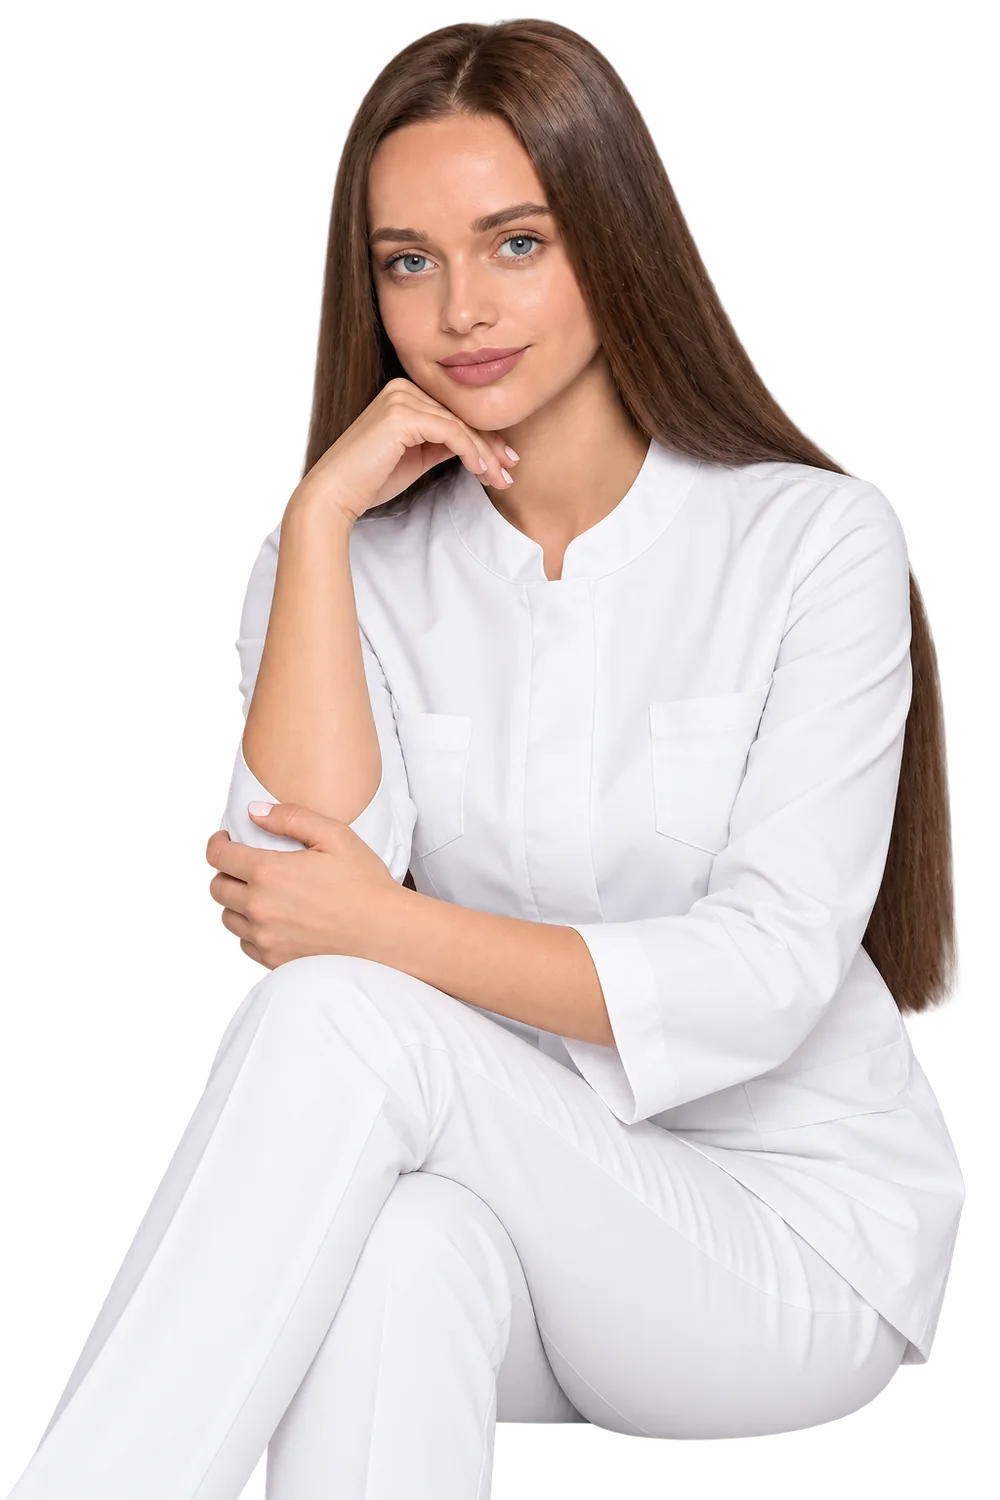
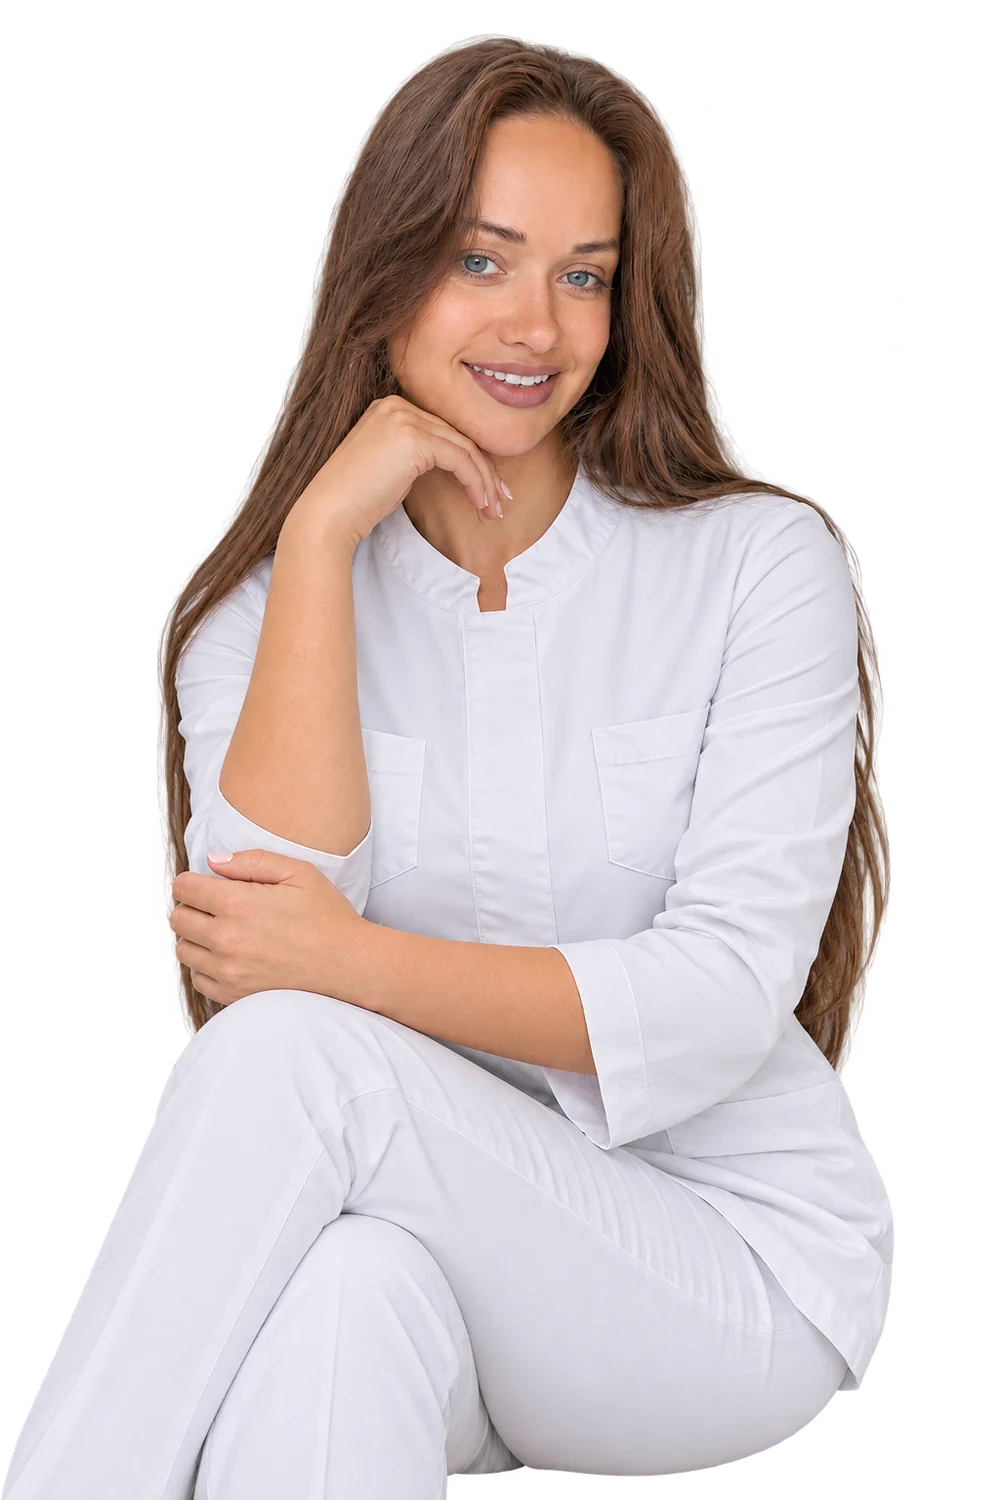
Новое фото мастера, порядок микроблейдинга, тёплая цветокоррекция, новая работа
- Первый экран и страница «Спасибо»: новое фото мастера (прозрачный фон, без тёмной каймы)
- Портфолио → Микроблейдинг: сначала фото с лицами, затем коллажи бровей
- Добавлена новая работа в микроблейдинг (первой в списке)
- lips-09: добавлено тепла (баланс белого, насыщенность)
- Метки версии у изменённых картинок, чтобы не показывались старые из кеша

diff --git a/index.html b/index.html
@@ -10,7 +10,7 @@
   <link rel="preconnect" href="https://fonts.googleapis.com">
   <link rel="preconnect" href="https://fonts.gstatic.com" crossorigin>
   <link href="https://fonts.googleapis.com/css2?family=Unbounded:wght@500&display=swap" rel="stylesheet">
-  <link rel="stylesheet" href="assets/css/style.css?v=202611051930">
+  <link rel="stylesheet" href="assets/css/style.css?v=202611071856">
 </head>
 <body>
 
@@ -115,7 +115,7 @@
   <section class="hero container">
     <div class="hero__card">
       <img class="hero__bg" src="assets/img/hero-bg.webp" alt="" width="1672" height="941" fetchpriority="high">
-      <img class="hero__master" src="assets/img/hero-master.webp" alt="Анжела Богатырёва — мастер перманентного макияжа" width="1000" height="1500" fetchpriority="high">
+      <img class="hero__master" src="assets/img/hero-master.webp?v=2" alt="Анжела Богатырёва — мастер перманентного макияжа" width="1000" height="1500" fetchpriority="high">
 
       <div class="hero__panel">
         <p class="hero__kicker">Красота, которая остаётся с вам надолго</p>
@@ -241,7 +241,7 @@
       <figure class="work" data-cat="lips"><img src="assets/img/works/lips-06.webp" alt="Перманентный макияж губ — работа мастера" loading="lazy" width="720" height="1280"></figure>
       <figure class="work" data-cat="lips"><img src="assets/img/works/lips-07.webp" alt="Перманентный макияж губ — работа мастера" loading="lazy" width="828" height="1220"></figure>
       <figure class="work" data-cat="lips"><img src="assets/img/works/lips-08.webp" alt="Перманентный макияж губ — работа мастера" loading="lazy" width="900" height="824"></figure>
-      <figure class="work" data-cat="lips microblading"><img src="assets/img/works/lips-09.webp" alt="Перманентный макияж губ — работа мастера" loading="lazy" width="900" height="1125"></figure>
+      <figure class="work" data-cat="lips microblading"><img src="assets/img/works/lips-09.webp?v=2" alt="Перманентный макияж губ — работа мастера" loading="lazy" width="900" height="1125"></figure>
       <figure class="work" data-cat="lips"><img src="assets/img/works/lips-10.webp" alt="Перманентный макияж губ — работа мастера" loading="lazy" width="900" height="1125"></figure>
       <figure class="work" data-cat="lips"><img src="assets/img/works/lips-11.webp" alt="Перманентный макияж губ — работа мастера" loading="lazy" width="900" height="1205"></figure>
       <figure class="work" data-cat="lips"><img src="assets/img/works/lips-12.webp" alt="Перманентный макияж губ — работа мастера" loading="lazy" width="900" height="1200"></figure>
@@ -276,6 +276,19 @@
       <figure class="work" data-cat="lash"><img src="assets/img/works/lash-06.webp" alt="Перманентный макияж межреснички — работа мастера" loading="lazy" width="900" height="1200"></figure>
       <figure class="work" data-cat="lash"><img src="assets/img/works/lash-07.webp" alt="Перманентный макияж межреснички — работа мастера" loading="lazy" width="900" height="1256"></figure>
       <figure class="work" data-cat="lash"><img src="assets/img/works/lash-08.webp" alt="Перманентный макияж межреснички — работа мастера" loading="lazy" width="900" height="1600"></figure>
+      <figure class="work" data-cat="microblading"><img src="assets/img/works/microblading-40.webp" alt="Микроблейдинг бровей — работа мастера" loading="lazy" width="900" height="1125"></figure>
+      <figure class="work" data-cat="microblading"><img src="assets/img/works/microblading-37.webp" alt="Микроблейдинг бровей — работа мастера" loading="lazy" width="900" height="1074"></figure>
+      <figure class="work" data-cat="microblading"><img src="assets/img/works/microblading-20.webp" alt="Микроблейдинг бровей — работа мастера" loading="lazy" width="900" height="1125"></figure>
+      <figure class="work" data-cat="microblading"><img src="assets/img/works/microblading-36.webp" alt="Микроблейдинг бровей — работа мастера" loading="lazy" width="900" height="1125"></figure>
+      <figure class="work" data-cat="microblading"><img src="assets/img/works/microblading-38.webp" alt="Микроблейдинг бровей — работа мастера" loading="lazy" width="900" height="1125"></figure>
+      <figure class="work" data-cat="microblading"><img src="assets/img/works/microblading-39.webp" alt="Микроблейдинг бровей — работа мастера" loading="lazy" width="900" height="1058"></figure>
+      <figure class="work" data-cat="microblading"><img src="assets/img/works/microblading-25.webp" alt="Микроблейдинг бровей — работа мастера" loading="lazy" width="900" height="1125"></figure>
+      <figure class="work" data-cat="microblading"><img src="assets/img/works/microblading-34.webp" alt="Микроблейдинг бровей — работа мастера" loading="lazy" width="900" height="1200"></figure>
+      <figure class="work" data-cat="microblading"><img src="assets/img/works/microblading-26.webp" alt="Микроблейдинг бровей — работа мастера" loading="lazy" width="900" height="1200"></figure>
+      <figure class="work" data-cat="microblading"><img src="assets/img/works/microblading-12.webp" alt="Микроблейдинг бровей — работа мастера" loading="lazy" width="900" height="1600"></figure>
+      <figure class="work" data-cat="microblading"><img src="assets/img/works/microblading-33.webp" alt="Микроблейдинг бровей — работа мастера" loading="lazy" width="900" height="1083"></figure>
+      <figure class="work" data-cat="microblading"><img src="assets/img/works/microblading-16.webp" alt="Микроблейдинг бровей — работа мастера" loading="lazy" width="900" height="900"></figure>
+      <figure class="work" data-cat="microblading"><img src="assets/img/works/microblading-32.webp" alt="Микроблейдинг бровей — работа мастера" loading="lazy" width="900" height="900"></figure>
       <figure class="work" data-cat="microblading"><img src="assets/img/works/microblading-01.webp" alt="Микроблейдинг бровей — работа мастера" loading="lazy" width="900" height="900"></figure>
       <figure class="work" data-cat="microblading"><img src="assets/img/works/microblading-02.webp" alt="Микроблейдинг бровей — работа мастера" loading="lazy" width="900" height="900"></figure>
       <figure class="work" data-cat="microblading"><img src="assets/img/works/microblading-03.webp" alt="Микроблейдинг бровей — работа мастера" loading="lazy" width="827" height="843"></figure>
@@ -287,34 +300,22 @@
       <figure class="work" data-cat="microblading"><img src="assets/img/works/microblading-09.webp" alt="Микроблейдинг бровей — работа мастера" loading="lazy" width="900" height="900"></figure>
       <figure class="work" data-cat="microblading"><img src="assets/img/works/microblading-10.webp" alt="Микроблейдинг бровей — работа мастера" loading="lazy" width="900" height="900"></figure>
       <figure class="work" data-cat="microblading"><img src="assets/img/works/microblading-11.webp" alt="Микроблейдинг бровей — работа мастера" loading="lazy" width="900" height="900"></figure>
-      <figure class="work" data-cat="microblading"><img src="assets/img/works/microblading-12.webp" alt="Микроблейдинг бровей — работа мастера" loading="lazy" width="900" height="1600"></figure>
       <figure class="work" data-cat="microblading"><img src="assets/img/works/microblading-13.webp" alt="Микроблейдинг бровей — работа мастера" loading="lazy" width="900" height="900"></figure>
       <figure class="work" data-cat="microblading"><img src="assets/img/works/microblading-14.webp" alt="Микроблейдинг бровей — работа мастера" loading="lazy" width="900" height="900"></figure>
       <figure class="work" data-cat="microblading"><img src="assets/img/works/microblading-15.webp" alt="Микроблейдинг бровей — работа мастера" loading="lazy" width="900" height="900"></figure>
-      <figure class="work" data-cat="microblading"><img src="assets/img/works/microblading-16.webp" alt="Микроблейдинг бровей — работа мастера" loading="lazy" width="900" height="900"></figure>
       <figure class="work" data-cat="microblading"><img src="assets/img/works/microblading-17.webp" alt="Микроблейдинг бровей — работа мастера" loading="lazy" width="900" height="900"></figure>
       <figure class="work" data-cat="microblading"><img src="assets/img/works/microblading-18.webp" alt="Микроблейдинг бровей — работа мастера" loading="lazy" width="900" height="900"></figure>
       <figure class="work" data-cat="microblading"><img src="assets/img/works/microblading-19.webp" alt="Микроблейдинг бровей — работа мастера" loading="lazy" width="900" height="900"></figure>
-      <figure class="work" data-cat="microblading"><img src="assets/img/works/microblading-20.webp" alt="Микроблейдинг бровей — работа мастера" loading="lazy" width="900" height="1125"></figure>
       <figure class="work" data-cat="microblading"><img src="assets/img/works/microblading-21.webp" alt="Микроблейдинг бровей — работа мастера" loading="lazy" width="900" height="1125"></figure>
       <figure class="work" data-cat="microblading"><img src="assets/img/works/microblading-22.webp" alt="Микроблейдинг бровей — работа мастера" loading="lazy" width="900" height="1125"></figure>
       <figure class="work" data-cat="microblading"><img src="assets/img/works/microblading-23.webp" alt="Микроблейдинг бровей — работа мастера" loading="lazy" width="900" height="1125"></figure>
       <figure class="work" data-cat="microblading"><img src="assets/img/works/microblading-24.webp" alt="Микроблейдинг бровей — работа мастера" loading="lazy" width="900" height="1125"></figure>
-      <figure class="work" data-cat="microblading"><img src="assets/img/works/microblading-25.webp" alt="Микроблейдинг бровей — работа мастера" loading="lazy" width="900" height="1125"></figure>
-      <figure class="work" data-cat="microblading"><img src="assets/img/works/microblading-26.webp" alt="Микроблейдинг бровей — работа мастера" loading="lazy" width="900" height="1200"></figure>
       <figure class="work" data-cat="microblading"><img src="assets/img/works/microblading-27.webp" alt="Микроблейдинг бровей — работа мастера" loading="lazy" width="900" height="1125"></figure>
       <figure class="work" data-cat="microblading"><img src="assets/img/works/microblading-28.webp" alt="Микроблейдинг бровей — работа мастера" loading="lazy" width="900" height="900"></figure>
       <figure class="work" data-cat="microblading"><img src="assets/img/works/microblading-29.webp" alt="Микроблейдинг бровей — работа мастера" loading="lazy" width="900" height="900"></figure>
       <figure class="work" data-cat="microblading"><img src="assets/img/works/microblading-30.webp" alt="Микроблейдинг бровей — работа мастера" loading="lazy" width="900" height="1067"></figure>
       <figure class="work" data-cat="microblading"><img src="assets/img/works/microblading-31.webp" alt="Микроблейдинг бровей — работа мастера" loading="lazy" width="900" height="1600"></figure>
-      <figure class="work" data-cat="microblading"><img src="assets/img/works/microblading-32.webp" alt="Микроблейдинг бровей — работа мастера" loading="lazy" width="900" height="900"></figure>
-      <figure class="work" data-cat="microblading"><img src="assets/img/works/microblading-33.webp" alt="Микроблейдинг бровей — работа мастера" loading="lazy" width="900" height="1083"></figure>
-      <figure class="work" data-cat="microblading"><img src="assets/img/works/microblading-34.webp" alt="Микроблейдинг бровей — работа мастера" loading="lazy" width="900" height="1200"></figure>
       <figure class="work" data-cat="microblading"><img src="assets/img/works/microblading-35.webp" alt="Микроблейдинг бровей — работа мастера" loading="lazy" width="900" height="1125"></figure>
-      <figure class="work" data-cat="microblading"><img src="assets/img/works/microblading-36.webp" alt="Микроблейдинг бровей — работа мастера" loading="lazy" width="900" height="1125"></figure>
-      <figure class="work" data-cat="microblading"><img src="assets/img/works/microblading-37.webp" alt="Микроблейдинг бровей — работа мастера" loading="lazy" width="900" height="1074"></figure>
-      <figure class="work" data-cat="microblading"><img src="assets/img/works/microblading-38.webp" alt="Микроблейдинг бровей — работа мастера" loading="lazy" width="900" height="1125"></figure>
-      <figure class="work" data-cat="microblading"><img src="assets/img/works/microblading-39.webp" alt="Микроблейдинг бровей — работа мастера" loading="lazy" width="900" height="1058"></figure>
       <figure class="work" data-cat="laser"><img src="assets/img/works/laser-01.webp" alt="Лазерное удаление татуажа — работа мастера" loading="lazy" width="900" height="900"></figure>
       <figure class="work" data-cat="laser"><img src="assets/img/works/laser-02.webp" alt="Лазерное удаление татуажа — работа мастера" loading="lazy" width="828" height="823"></figure>
       <figure class="work" data-cat="laser"><img src="assets/img/works/laser-03.webp" alt="Лазерное удаление татуажа — работа мастера" loading="lazy" width="900" height="900"></figure>
@@ -518,6 +519,6 @@
   </div>
 </div>
 
-<script src="assets/js/main.js?v=202611051930" defer></script>
+<script src="assets/js/main.js?v=202611071856" defer></script>
 </body>
 </html>

diff --git a/thanks.html b/thanks.html
@@ -10,7 +10,7 @@
   <link rel="preconnect" href="https://fonts.googleapis.com">
   <link rel="preconnect" href="https://fonts.gstatic.com" crossorigin>
   <link href="https://fonts.googleapis.com/css2?family=Unbounded:wght@500&display=swap" rel="stylesheet">
-  <link rel="stylesheet" href="assets/css/style.css?v=202611051930">
+  <link rel="stylesheet" href="assets/css/style.css?v=202611071856">
 </head>
 <body class="page-thanks">
 
@@ -127,7 +127,7 @@
     </div>
     <div class="thanks__visual" aria-hidden="true">
       <img class="thanks__bg" src="assets/img/hero-bg.webp" alt="" width="1672" height="941">
-      <img class="thanks__master" src="assets/img/hero-master.webp" alt="" width="1000" height="1500">
+      <img class="thanks__master" src="assets/img/hero-master.webp?v=2" alt="" width="1000" height="1500">
     </div>
   </section>
 </main>

diff --git a/assets/js/main.js b/assets/js/main.js
@@ -28,7 +28,7 @@
         ['Естественный вид:', 'современные техники (особенно акварельная) позволяют добиться эффекта «своих» ухоженных губ без ощущения яркой помады.'],
       ],
       price: '8 000 ₽',
-      images: ['works/brows-17.webp', 'works/lips-09.webp', 'works/lips-13.webp', 'works/lips-04.webp', 'works/lips-06.webp'],
+      images: ['works/brows-17.webp', 'works/lips-09.webp?v=2', 'works/lips-13.webp', 'works/lips-04.webp', 'works/lips-06.webp'],
     },
     microblading: {
       title: 'Микроблейдинг бровей волосковый',

diff --git a/privacy.html b/privacy.html
@@ -10,7 +10,7 @@
   <link rel="preconnect" href="https://fonts.googleapis.com">
   <link rel="preconnect" href="https://fonts.gstatic.com" crossorigin>
   <link href="https://fonts.googleapis.com/css2?family=Unbounded:wght@500&display=swap" rel="stylesheet">
-  <link rel="stylesheet" href="assets/css/style.css?v=202611051930">
+  <link rel="stylesheet" href="assets/css/style.css?v=202611071856">
 </head>
 <body class="page-legal">
 

diff --git a/terms.html b/terms.html
@@ -10,7 +10,7 @@
   <link rel="preconnect" href="https://fonts.googleapis.com">
   <link rel="preconnect" href="https://fonts.gstatic.com" crossorigin>
   <link href="https://fonts.googleapis.com/css2?family=Unbounded:wght@500&display=swap" rel="stylesheet">
-  <link rel="stylesheet" href="assets/css/style.css?v=202611051930">
+  <link rel="stylesheet" href="assets/css/style.css?v=202611071856">
 </head>
 <body class="page-legal">
 
